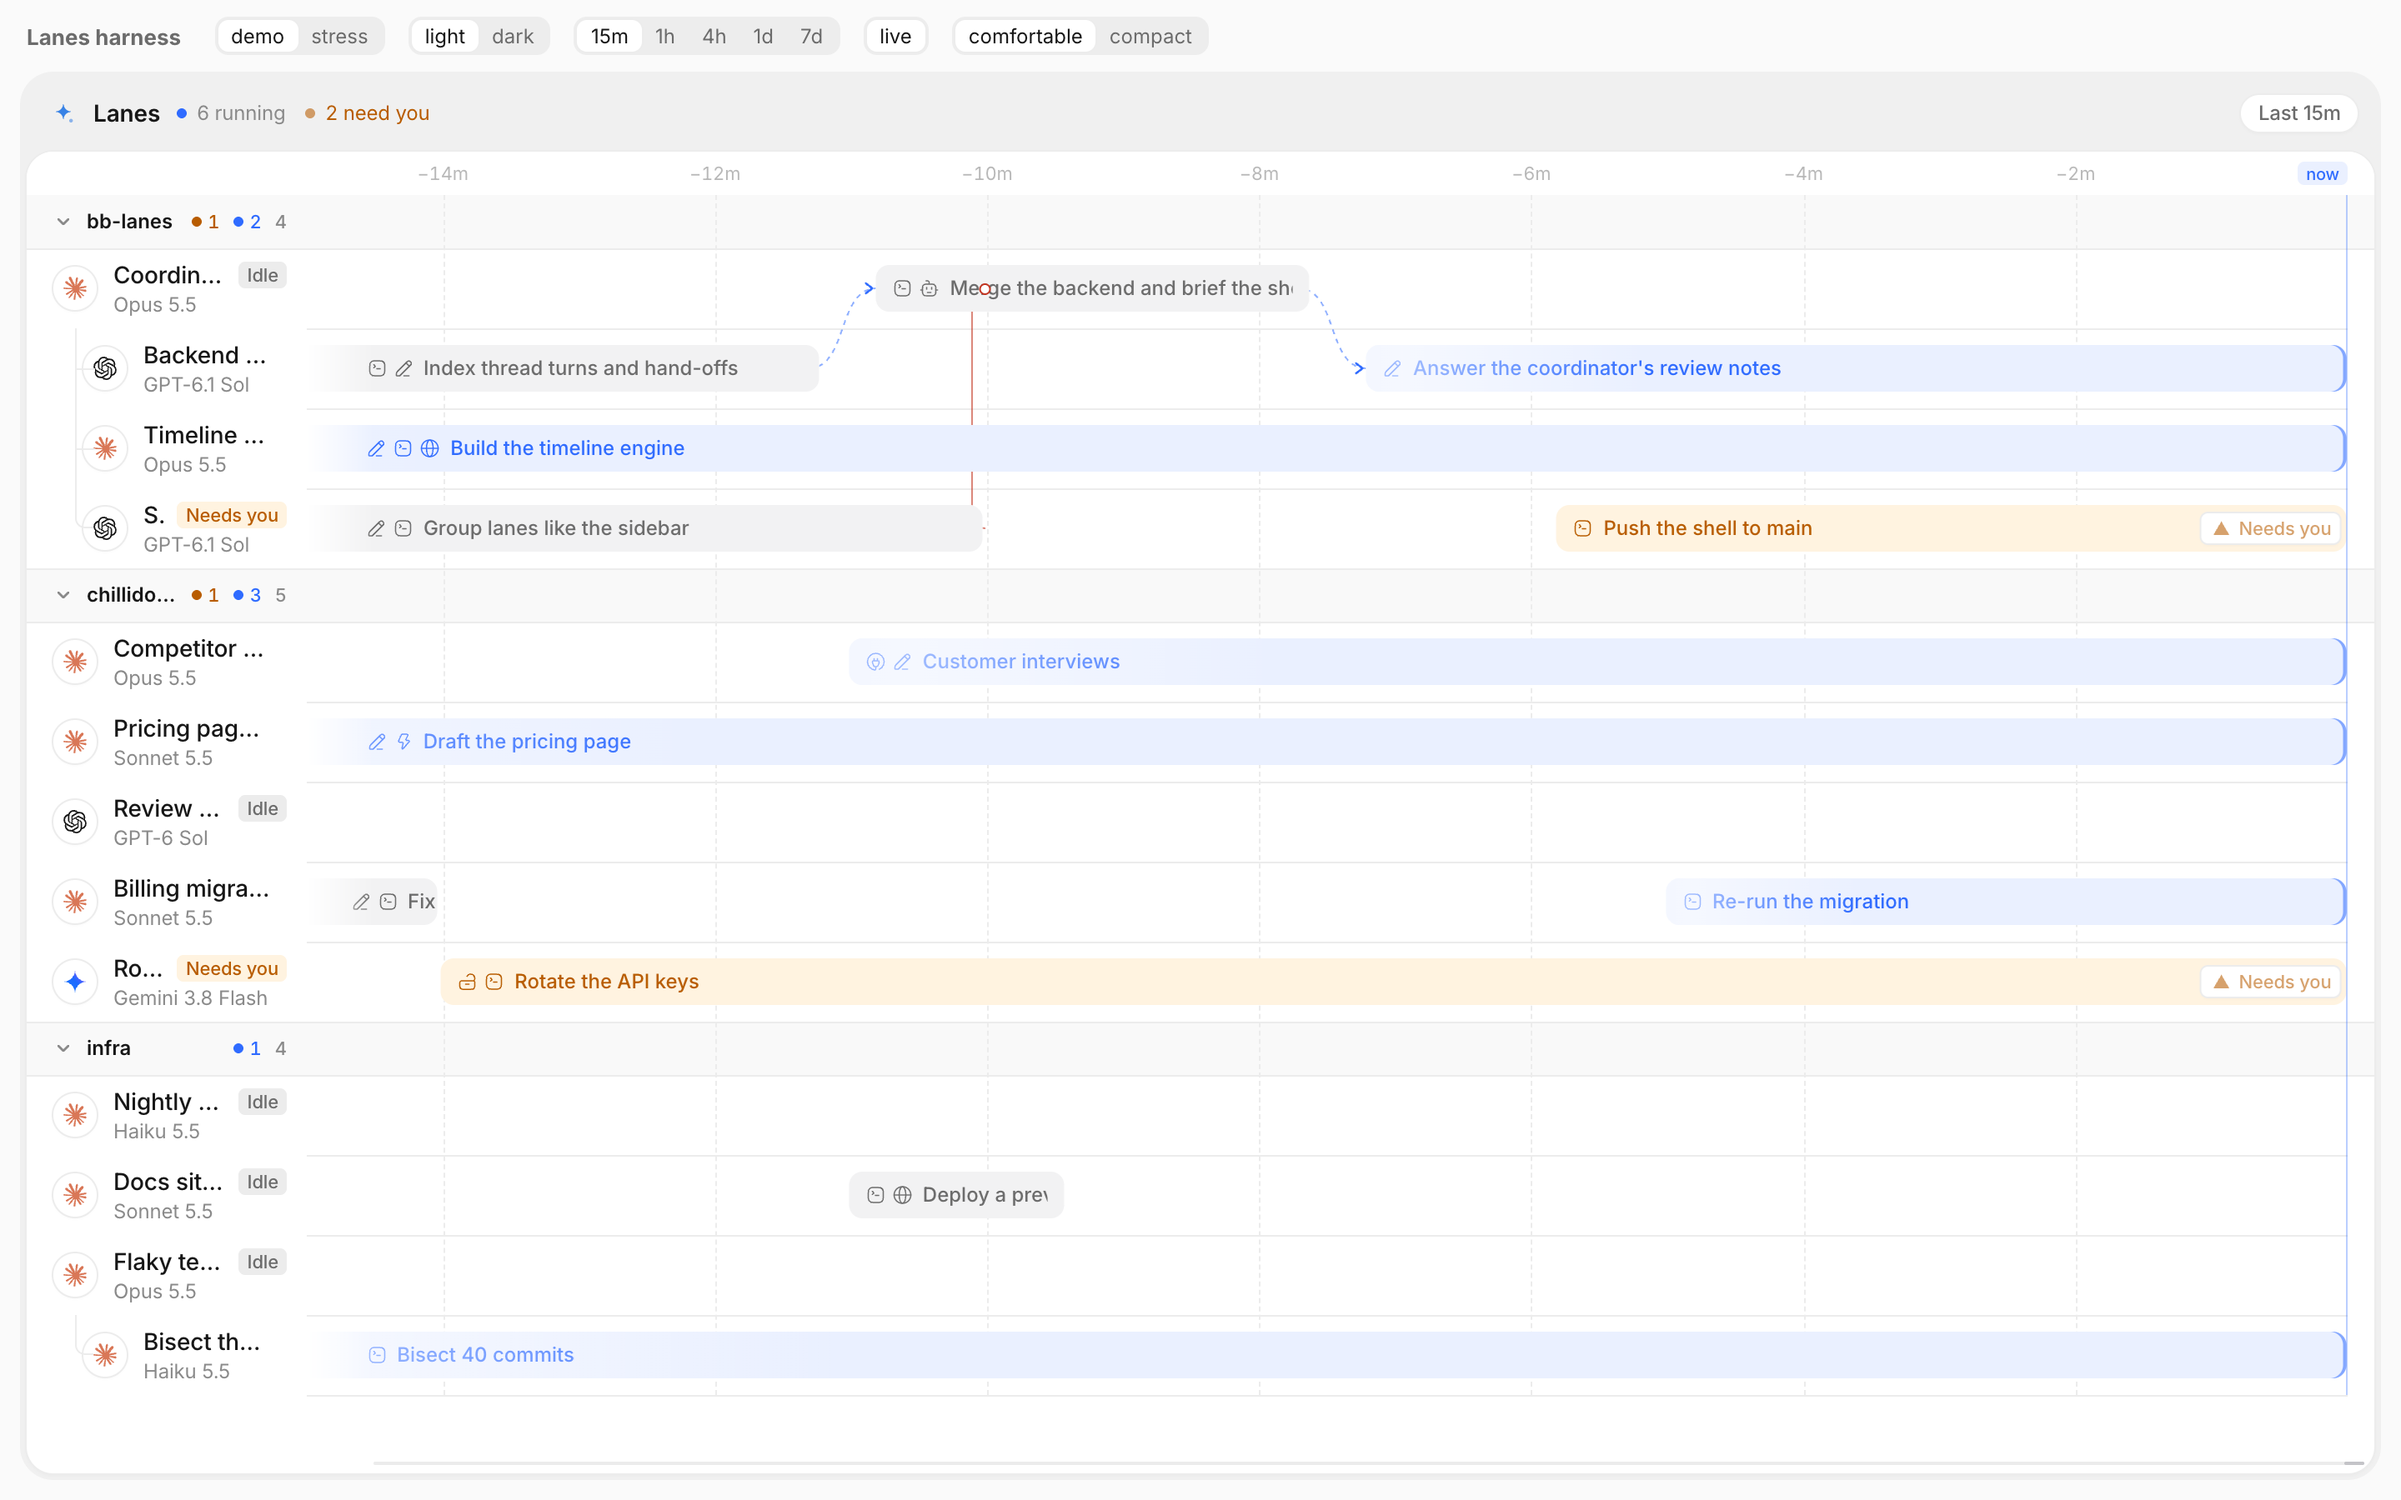
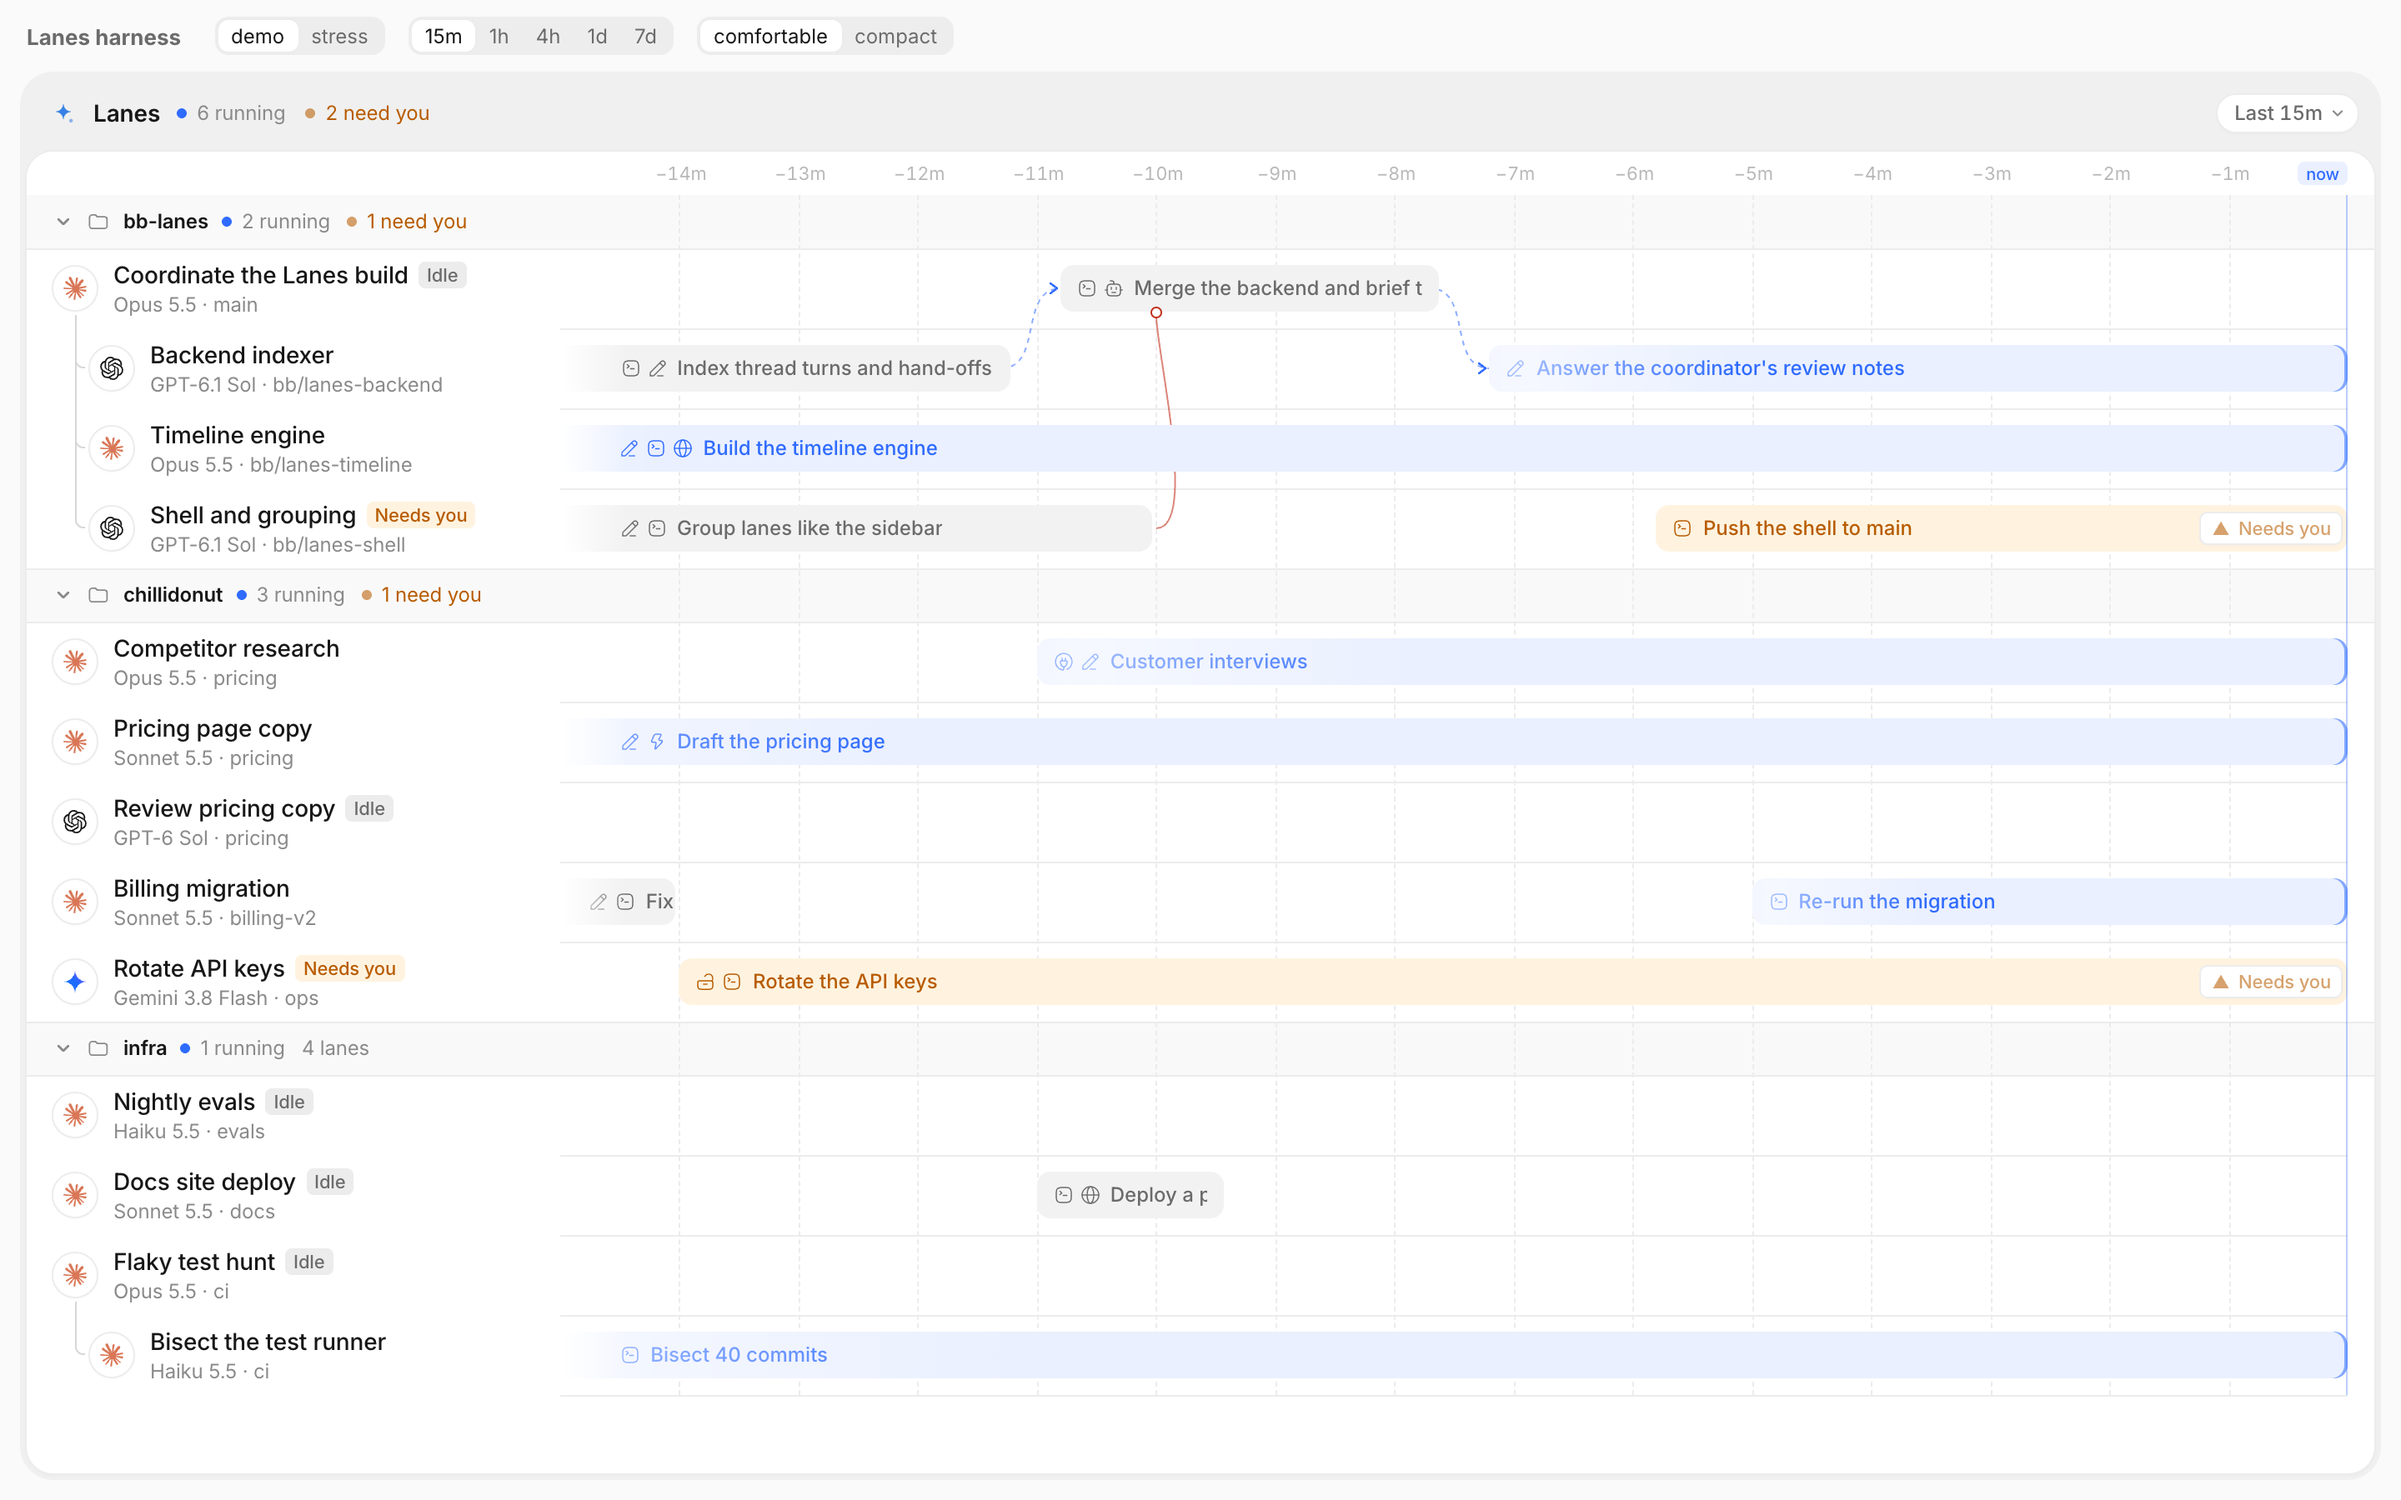
Harness: titles before the first cell draws; refresh its screenshots
The stand-in ThreadTitle read titles set in an effect, after the first
render; with header cells memoised, cells never drew again and showed
thread ids. Titles are set during render now. The harness screenshots
are reshot with the shell's cells, so they show what bb shows.

diff --git a/app/timeline/harness/main.tsx b/app/timeline/harness/main.tsx
@@ -93,7 +93,8 @@ function useShellCells(threads: readonly CellThread[], rows: readonly Row[], onT
     () => new Map(threads.map((t) => [t.id, makeThread({ id: t.id, title: t.title })])),
     [threads],
   );
-  useEffect(() => setHarnessTitles(threads.map((t) => [t.id, t.title])), [threads]);
+  // Titles must be known before the first cell draws: cells are memoised and do not draw again for them.
+  useMemo(() => setHarnessTitles(threads.map((t) => [t.id, t.title])), [threads]);
   const meta = useMemo(() => treeMeta(rows), [rows]);
   const actions = useMemo<LaneActions>(
     () => ({
